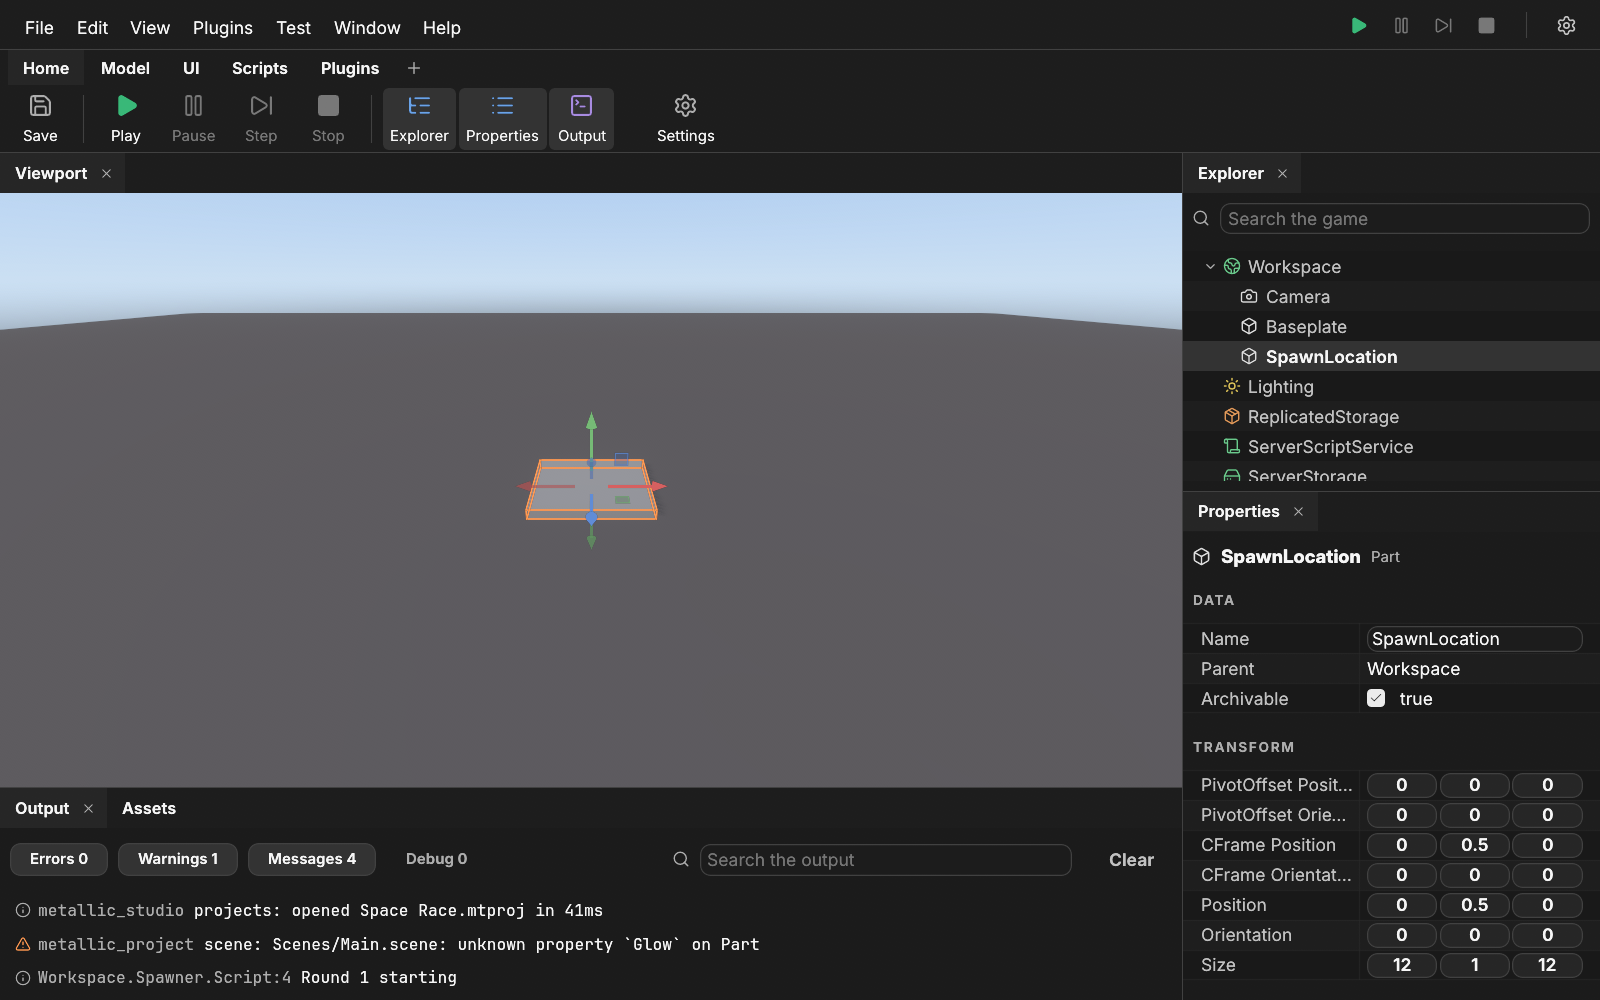
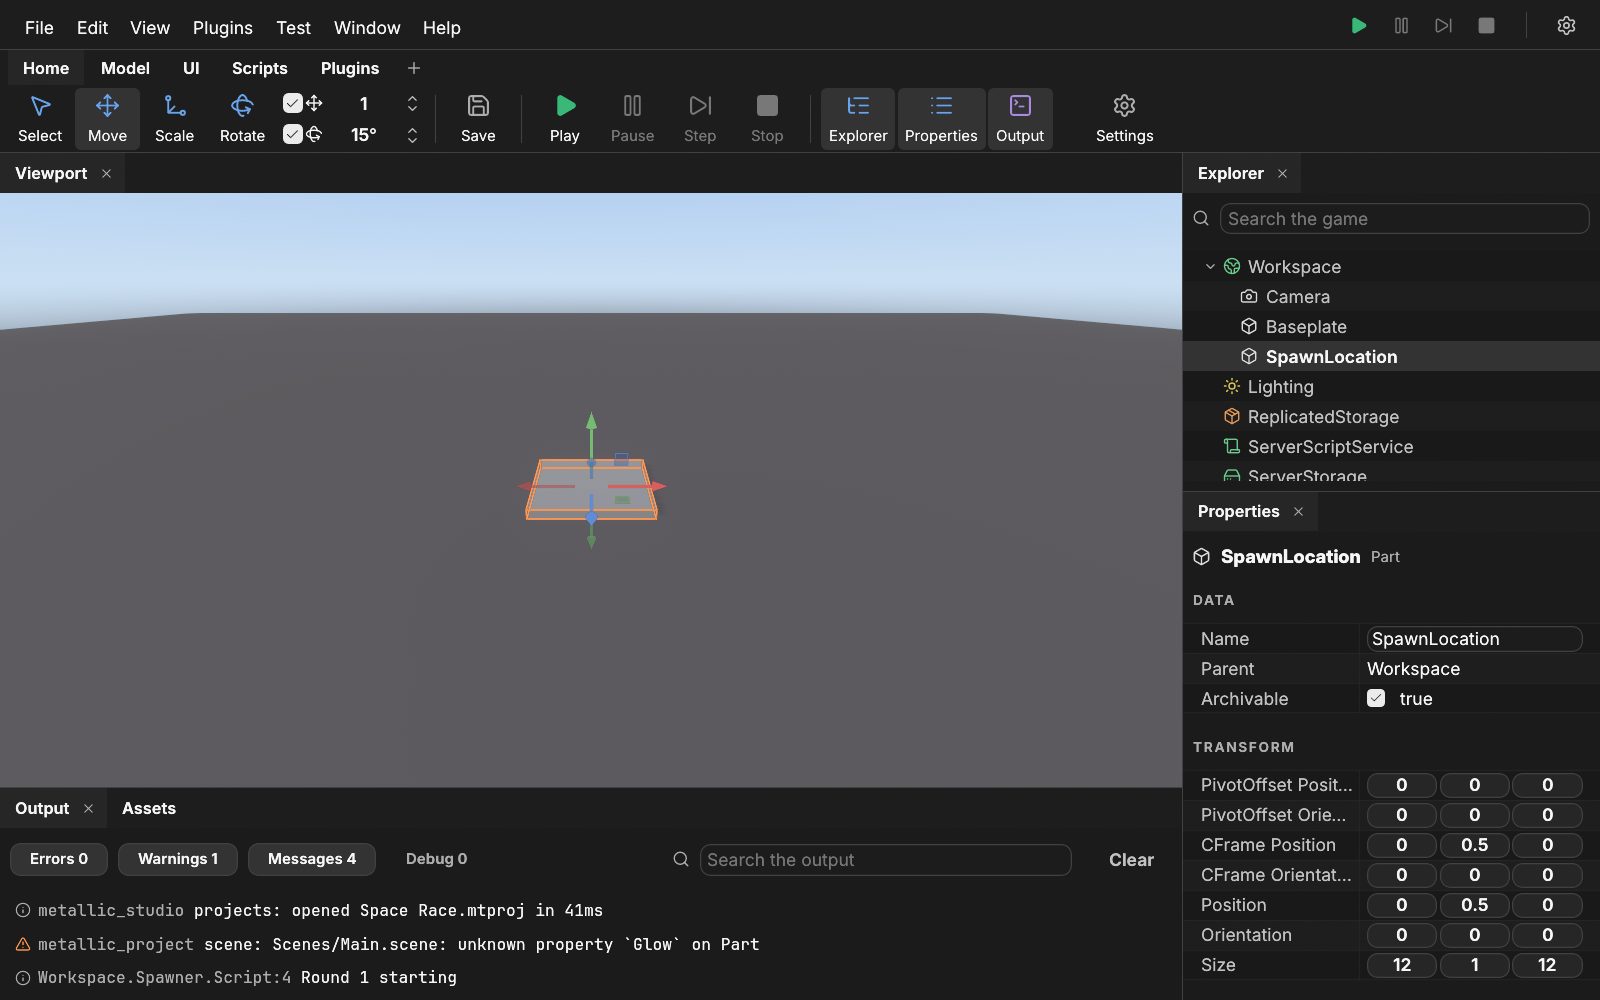
studio: move and rotate increments in the toolbar (#375) (#389)
The Snap tool is drawn as the move and rotate increments, one above the
other: a switch, the tool's icon, the increment as a field to type in or
drag, and arrows through common values. Home has it after the transform
tools.

diff --git a/apps/studio/src/toolbar/increments.rs b/apps/studio/src/toolbar/increments.rs
@@ -1,0 +1,162 @@
+//! The Snap tool's element (#375): the move and rotate increments, one above the other, as Roblox Studio's Model tab
+//! has them. Each row is a check box (snapping on or off), the Move or Rotate icon, the increment as a field to type
+//! in or drag, and arrows stepping through common values. It edits Settings, Editing in place.
+
+use egui::{Align, Align2, Color32, DragValue, Layout, Rect, Role, Sense, Stroke, Ui, UiBuilder, WidgetInfo, vec2};
+
+use crate::settings::{Editing, MOVE_STEP, TURN_STEP};
+use crate::theme::icons::{self, Icon};
+use crate::theme::tokens::space;
+use crate::theme::{self, current_colors};
+
+/// The element's width.
+pub const WIDTH: f32 = 118.0;
+/// The common move increments the arrows step through, in studs.
+const MOVES: &[f32] = &[
+    0.01, 0.05, 0.1, 0.125, 0.2, 0.25, 0.5, 1.0, 2.0, 4.0, 5.0, 10.0, 20.0, 50.0, 100.0,
+];
+/// The common rotate increments, in degrees.
+const TURNS: &[f32] = &[1.0, 5.0, 10.0, 15.0, 22.5, 30.0, 45.0, 90.0, 180.0];
+/// The side of the row's icon.
+const ICON: f32 = 14.0;
+/// The width of the arrows.
+const ARROWS: f32 = 12.0;
+
+/// One row: what it edits and how.
+struct Row {
+    /// The check box's label.
+    switch: &'static str,
+    /// The field's label.
+    field: &'static str,
+    icon: Icon,
+    common: &'static [f32],
+    range: (f32, f32),
+    suffix: &'static str,
+    /// How much a point dragged changes it.
+    speed: f64,
+}
+
+const MOVE: Row = Row {
+    switch: "Snap moves",
+    field: "Move increment",
+    icon: Icon::ToolbarMove,
+    common: MOVES,
+    range: MOVE_STEP,
+    suffix: "",
+    speed: 0.01,
+};
+
+const TURN: Row = Row {
+    switch: "Snap turns",
+    field: "Rotate increment",
+    icon: Icon::ToolbarRotate,
+    common: TURNS,
+    range: TURN_STEP,
+    suffix: "\u{B0}",
+    speed: 0.25,
+};
+
+/// The next common value above `value` (`up`) or below it; `value` itself past the last.
+pub fn step(common: &[f32], value: f32, up: bool) -> f32 {
+    let found = if up {
+        common.iter().copied().find(|&c| c > value * 1.0001)
+    } else {
+        common.iter().rev().copied().find(|&c| c < value * 0.9999)
+    };
+    found.unwrap_or(value)
+}
+
+/// Draws the increments in `rect`, editing `editing`.
+pub fn show(ui: &mut Ui, rect: Rect, editing: &mut Editing) {
+    let half = rect.height() / 2.0;
+    let top = Rect::from_min_size(rect.min, vec2(rect.width(), half));
+    let bottom = Rect::from_min_size(top.left_bottom(), vec2(rect.width(), half));
+    row(ui, top, &MOVE, &mut editing.snap_moves, &mut editing.move_step);
+    row(ui, bottom, &TURN, &mut editing.snap_turns, &mut editing.turn_step);
+}
+
+fn row(ui: &mut Ui, rect: Rect, row: &Row, on: &mut bool, value: &mut f32) {
+    let p = current_colors(ui.ctx()).palette;
+    let mut ui = ui.new_child(
+        UiBuilder::new()
+            .max_rect(rect.shrink2(vec2(space::S2, 1.0)))
+            .id_salt(row.field)
+            .layout(Layout::left_to_right(Align::Center)),
+    );
+    ui.spacing_mut().item_spacing.x = space::S1;
+    theme::checkbox_only(&mut ui, on, row.switch);
+    let (at, _) = ui.allocate_exact_size(vec2(ICON, ICON), Sense::hover());
+    let ink = if *on { p.text } else { p.muted };
+    icons::paint(ui.painter(), row.icon, at, ink);
+    let field = ui.available_width() - ARROWS - space::S1;
+    let height = ui.available_height();
+    let response = ui
+        .scope(|ui| {
+            // A plain field: no box, only a faint one under the pointer.
+            let widgets = &mut ui.visuals_mut().widgets;
+            for state in [&mut widgets.inactive, &mut widgets.active] {
+                state.weak_bg_fill = Color32::TRANSPARENT;
+                state.bg_stroke = Stroke::NONE;
+            }
+            widgets.hovered.bg_stroke = Stroke::NONE;
+            ui.spacing_mut().button_padding = vec2(space::S1, 0.0);
+            ui.add_enabled_ui(*on, |ui| {
+                ui.add_sized(
+                    [field, height],
+                    DragValue::new(value)
+                        .range(row.range.0..=row.range.1)
+                        .speed(row.speed)
+                        .custom_formatter(|v, _| crate::panels::properties::number(v))
+                        .suffix(row.suffix),
+                )
+            })
+            .inner
+        })
+        .inner;
+    response.widget_info(|| WidgetInfo::labeled(Role::SpinButton, *on, row.field));
+    // The arrows: the upper half steps up, the lower down.
+    let (arrows, _) = ui.allocate_exact_size(vec2(ARROWS, height), Sense::hover());
+    for (up, icon) in [(true, Icon::UiMoveUp), (false, Icon::UiMoveDown)] {
+        let half = if up {
+            Rect::from_min_max(arrows.min, arrows.right_center())
+        } else {
+            Rect::from_min_max(arrows.left_center(), arrows.max)
+        };
+        let label = format!("{} {}", row.field, if up { "up" } else { "down" });
+        let response = ui.interact(half, ui.scope_id().with(&label), Sense::click());
+        response.widget_info(|| WidgetInfo::labeled(Role::Button, *on, &label));
+        let ink = if !*on {
+            p.subtle
+        } else if response.hovered() {
+            p.text
+        } else {
+            p.muted
+        };
+        let anchor = if up { Align2::CENTER_BOTTOM } else { Align2::CENTER_TOP };
+        let point = if up {
+            half.center_bottom() + vec2(0.0, 2.0)
+        } else {
+            half.center_top() - vec2(0.0, 2.0)
+        };
+        icons::paint_at(ui.painter(), point, anchor, icon, ARROWS, ink);
+        if *on && response.clicked() {
+            *value = step(row.common, *value, up);
+        }
+    }
+}
+
+#[cfg(test)]
+mod tests {
+    use super::*;
+
+    #[test]
+    fn the_arrows_step_through_common_values() {
+        assert_eq!(step(MOVES, 1.0, true), 2.0);
+        assert_eq!(step(MOVES, 1.0, false), 0.5);
+        assert_eq!(step(MOVES, 0.112, true), 0.125, "from a value typed in, the next one");
+        assert_eq!(step(MOVES, 0.112, false), 0.1);
+        assert_eq!(step(TURNS, 180.0, true), 180.0, "the last stays");
+        assert_eq!(step(TURNS, 1.0, false), 1.0);
+        assert_eq!(step(TURNS, 15.0, true), 22.5);
+    }
+}

diff --git a/apps/studio/src/toolbar/mod.rs b/apps/studio/src/toolbar/mod.rs
@@ -15,6 +15,7 @@
 //! to carry out, which is also how a plugin's tool will reach its plugin.
 
 pub mod add;
+pub mod increments;
 pub mod model;
 pub mod tabs;
 pub mod tools;
@@ -26,6 +27,7 @@ use egui::{
 };
 
 use crate::dock::Panel;
+use crate::settings::Editing;
 use crate::theme::icons::{self, Icon};
 use crate::theme::tokens::{size, space, text};
 use crate::theme::{PlayControl, current_colors, fonts};
@@ -205,12 +207,13 @@ impl Toolbar {
     }
 
     /// Draws the toolbar filling `ui`'s rect. `enabled` says whether a tool can be used now, `checked` whether it is
-    /// on (a panel that is open). Returns what was clicked.
+    /// on (a panel that is open); the Snap tool edits `editing` (#375). Returns what was clicked.
     pub fn ui(
         &mut self,
         ui: &mut Ui,
         enabled: impl Fn(&ToolAction) -> bool,
         checked: impl Fn(&ToolAction) -> bool,
+        editing: &mut Editing,
     ) -> Vec<ToolbarEvent> {
         let p = current_colors(ui.ctx()).palette;
         let rect = ui.max_rect();
@@ -224,7 +227,7 @@ impl Toolbar {
         let mut changes = Vec::new();
         let mut events = Vec::new();
         self.tab_row(ui, tabs, &mut changes);
-        self.tool_row(ui, tools, &enabled, &checked, &mut changes, &mut events);
+        self.tool_row(ui, tools, &enabled, &checked, editing, &mut changes, &mut events);
         self.add_window(ui.ctx(), &mut changes);
         if self.tabs_open && !tabs::show(ui.ctx(), &mut self.config) {
             changes.push(Change::CloseTabs);
@@ -460,12 +463,14 @@ impl Toolbar {
     }
 
     /// The front tab's elements; right-click on the row to add one.
+    #[allow(clippy::too_many_arguments)]
     fn tool_row(
         &self,
         ui: &mut Ui,
         rect: Rect,
         enabled: &impl Fn(&ToolAction) -> bool,
         checked: &impl Fn(&ToolAction) -> bool,
+        editing: &mut Editing,
         changes: &mut Vec<Change>,
         events: &mut Vec<ToolbarEvent>,
     ) {
@@ -528,6 +533,9 @@ impl Toolbar {
         let mut dragged = false;
         for (index, element) in elements.iter().enumerate() {
             let (width, label) = match element {
+                Element::Tool { id } if self.registry.get(id).is_some_and(is_increments) => {
+                    (increments::WIDTH, "Snap".to_owned())
+                }
                 Element::Tool { id } => {
                     let label = self.registry.get(id).map_or(id.as_str(), |tool| tool.label.as_str());
                     let galley =
@@ -542,7 +550,7 @@ impl Toolbar {
                 pos2(x, rect.top() + space::S1),
                 vec2(width, rect.height() - 2.0 * space::S1),
             );
-            let response = self.element(ui, index, element, at, &label, enabled, checked, events);
+            let response = self.element(ui, index, element, at, &label, enabled, checked, editing, events);
             if response.dragged() {
                 dragged = true;
             }
@@ -593,6 +601,7 @@ impl Toolbar {
         label: &str,
         enabled: &impl Fn(&ToolAction) -> bool,
         checked: &impl Fn(&ToolAction) -> bool,
+        editing: &mut Editing,
         events: &mut Vec<ToolbarEvent>,
     ) -> Response {
         let p = current_colors(ui.ctx()).palette;
@@ -601,6 +610,11 @@ impl Toolbar {
             .with(("metallic.toolbar.element", self.config.active_tab().id, index));
         let response = ui.interact(rect, id, Sense::click_and_drag());
         match element {
+            Element::Tool { id } if self.registry.get(id).is_some_and(is_increments) => {
+                response.widget_info(|| WidgetInfo::labeled(Role::Group, true, "Snap increments"));
+                increments::show(ui, rect, editing);
+                response
+            }
             Element::Tool { id } => {
                 let tool = self.registry.get(id);
                 let usable = tool.is_some_and(|tool| enabled(&tool.action));
@@ -673,6 +687,11 @@ impl Toolbar {
             }
         }
     }
+}
+
+/// Whether `tool` is drawn as the move and rotate increments (#375) rather than a button.
+fn is_increments(tool: &Tool) -> bool {
+    tool.action == ToolAction::Studio(StudioCommand::Snap)
 }
 
 /// How `action` is drawn when it is one of the game's controls, as on the top bar (#325).

diff --git a/apps/studio/src/app/mod.rs b/apps/studio/src/app/mod.rs
@@ -506,10 +506,7 @@ impl Studio {
         let play = editor::MenuState::of(editor);
         let dock = &self.dock;
         let gizmo = (editor.viewport.gizmo.tool, editor.viewport.gizmo.local);
-        let snapping = {
-            let editing = self.settings.settings().editing;
-            editing.snap_moves || editing.snap_turns
-        };
+        let editing = &mut self.settings.settings_mut().editing;
         let ran = ui
             .scope_builder(UiBuilder::new().max_rect(strip), |ui| {
                 self.toolbar.ui(
@@ -519,9 +516,9 @@ impl Studio {
                         ToolAction::Studio(StudioCommand::TogglePanel(id)) => dock.is_open(id),
                         ToolAction::Studio(StudioCommand::Transform(tool)) => *tool == gizmo.0,
                         ToolAction::Studio(StudioCommand::LocalSpace) => gizmo.1,
-                        ToolAction::Studio(StudioCommand::Snap) => snapping,
                         _ => false,
                     },
+                    editing,
                 )
             })
             .inner;
@@ -4511,11 +4508,24 @@ mod tests {
             harness.state().studio.editor().unwrap().viewport.gizmo.tool,
             crate::viewport::tools::Tool::Move
         );
+        // Snap is the increments (#375): a switch, a field and arrows for each.
         assert!(harness.state().studio.settings().editing.snap_moves);
-        harness.get_by_role_and_label(Role::Button, "Snap tool").click();
+        harness.get_by_role_and_label(Role::CheckBox, "Snap turns").click();
+        harness.get_by_role_and_label(Role::Button, "Move increment up").click();
         settle(&mut harness);
         let editing = harness.state().studio.settings().editing;
-        assert!(!editing.snap_moves && !editing.snap_turns);
+        assert!(editing.snap_moves && !editing.snap_turns);
+        assert_eq!(editing.move_step, 2.0);
+        harness
+            .get_by_role_and_label(Role::Button, "Rotate increment up")
+            .click();
+        settle(&mut harness);
+        assert_eq!(
+            harness.state().studio.settings().editing.turn_step,
+            15.0,
+            "off: the arrows do nothing"
+        );
+        harness.get_by_role_and_label(Role::SpinButton, "Move increment");
         // Scripts: an empty toolbar, with an Add tool button (#328) that opens the Add window.
         click_tab(&mut harness, "Scripts");
         assert_eq!(harness.state().studio.toolbar().config().active, 3);

diff --git a/apps/studio/src/toolbar/model.rs b/apps/studio/src/toolbar/model.rs
@@ -33,7 +33,8 @@ impl Element {
     }
 }
 
-/// Select, Move, Scale and Rotate, then a separator: what the Home tab starts with, at the far left (#374).
+/// Select, Move, Scale and Rotate (#374), the increments (#375), then a separator: what the Home tab starts with, at
+/// the far left.
 fn transform_tools() -> Vec<Element> {
     use super::tools::ids;
     vec![
@@ -41,6 +42,7 @@ fn transform_tools() -> Vec<Element> {
         Element::tool(ids::MOVE),
         Element::tool(ids::SCALE),
         Element::tool(ids::ROTATE),
+        Element::tool(ids::SNAP),
         Element::Separator,
     ]
 }
@@ -351,8 +353,8 @@ mod tests {
         // Every tab has an id of its own.
         let ids: std::collections::HashSet<u32> = config.tabs.iter().map(|tab| tab.id).collect();
         assert_eq!(ids.len(), 5);
-        // Home starts with the transform tools (#374).
-        assert_eq!(config.tabs[0].elements[..5], transform_tools()[..]);
+        // Home starts with the transform tools (#374) and the increments (#375).
+        assert_eq!(config.tabs[0].elements[..6], transform_tools()[..]);
     }
 
     #[test]

diff --git a/apps/studio/src/toolbar/tools.rs b/apps/studio/src/toolbar/tools.rs
@@ -41,7 +41,7 @@ pub mod ids {
     pub const ROTATE: &str = "studio.tool.rotate";
     /// World or local axes for the gizmos.
     pub const LOCAL_SPACE: &str = "studio.tool.local_space";
-    /// Snapping on or off (#359).
+    /// The move and rotate increments (#359, #375).
     pub const SNAP: &str = "studio.tool.snap";
     /// The prefix of a panel's toggle: `studio.panel.<panel id>`.
     pub const PANEL: &str = "studio.panel.";
@@ -301,7 +301,7 @@ impl ToolRegistry {
             Tool::studio(
                 ids::SNAP,
                 "Snap",
-                "Turns snapping to the move and rotate increments (Settings, Editing) on or off.",
+                "The move and rotate increments drags snap to, each with its switch (Settings, Editing).",
                 Icon::ToolbarSnap,
                 groups::TRANSFORM,
                 StudioCommand::Snap,

diff --git a/docs/adr/0009-studio-foundation.md b/docs/adr/0009-studio-foundation.md
@@ -338,6 +338,10 @@ Built after Forge-Engine's editor, which the owner wrote with these systems in i
 - **Tools at hand (#374)**: the transform tools' keybinds are 1 (Select), 2 (Move), 3 (Scale) and 4 (Rotate), which
   never fire while typing. The Home tab starts with them, at the far left; `toolbar.json` version 2 puts them at the
   far left of a saved toolbar's first tab once, unless that tab already holds one of them.
+- **Increments in the toolbar (#375)**: the Snap tool is drawn as the move and rotate increments, one above the
+  other (`toolbar::increments`): a check box for each switch, the Move or Rotate icon, the increment as a field to type
+  in or drag, and arrows stepping through common values (0.01 to 100 studs, 1 to 180 degrees). It edits Settings,
+  Editing in place, and the Home tab has it after the transform tools.
 
 ## Not in this slice
 
